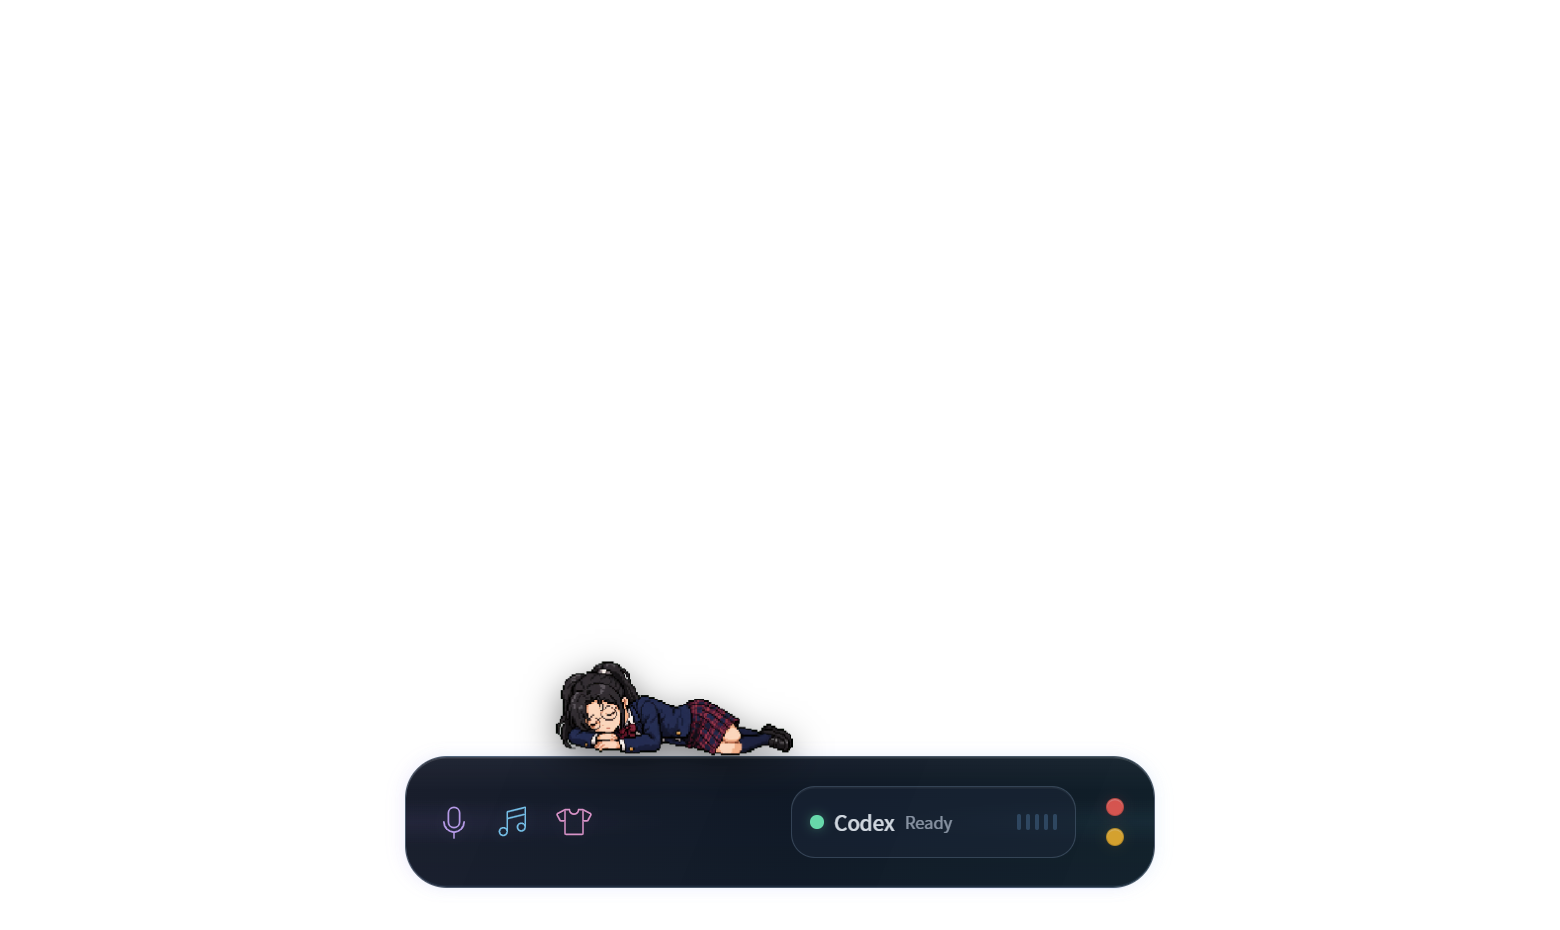
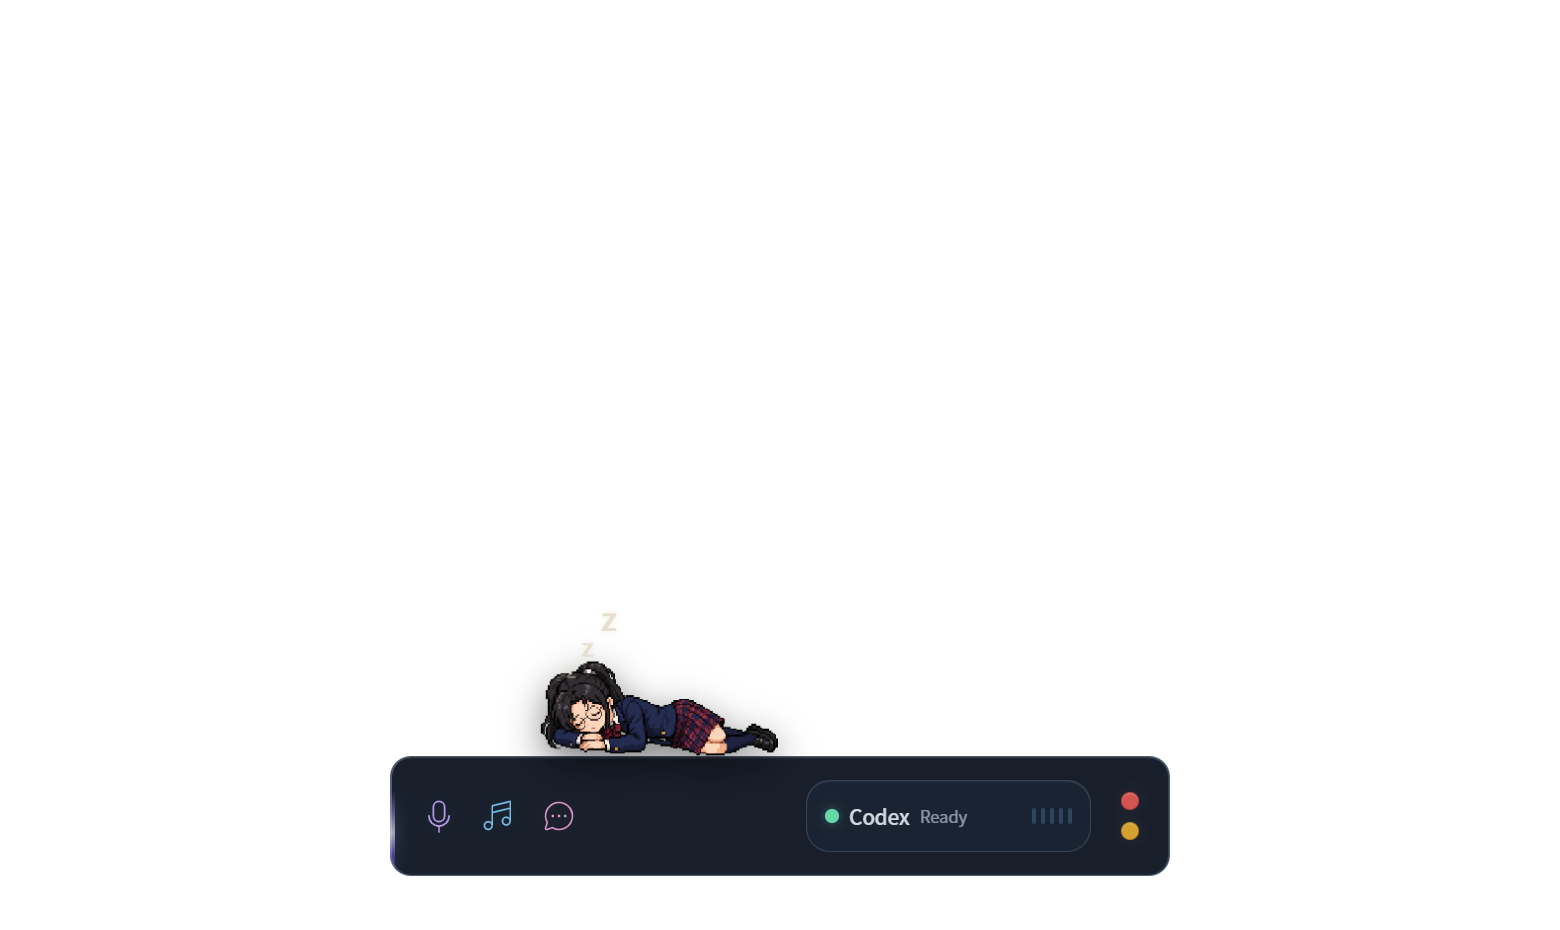
Refine compact companion rail and sleep state

diff --git a/src/styles.css b/src/styles.css
@@ -45,33 +45,28 @@ button, input, select { font: inherit; }
   position: absolute;
   z-index: 10;
   left: 50%;
-  bottom: 12px;
-  width: min(500px, calc(100vw - 28px));
-  height: 88px;
+  bottom: 20px;
+  width: min(520px, calc(100vw - 28px));
+  height: 80px;
   display: block;
   padding: 0;
-  border: 1px solid rgba(190, 210, 236, .34);
-  border-radius: 28px;
-  background:
-    linear-gradient(112deg, rgba(23, 28, 42, .96) 0%, rgba(16, 25, 38, .97) 54%, rgba(16, 30, 41, .96) 100%);
+  border: 1px solid rgba(180, 200, 226, .38);
+  border-radius: 14px;
+  background: rgba(18, 25, 38, .92);
   box-shadow:
-    -3px 0 10px rgba(145, 116, 230, .08),
-    3px 0 10px rgba(109, 197, 226, .07),
-    inset 0 1px rgba(255, 255, 255, .12),
-    inset 0 -1px rgba(126, 171, 214, .1);
-  backdrop-filter: blur(28px) saturate(112%);
+    inset 0 1px rgba(255, 255, 255, .11),
+    inset 0 -1px rgba(102, 139, 181, .08);
+  backdrop-filter: blur(26px) saturate(108%);
   overflow: visible;
   isolation: isolate;
   transform: translateX(-50%);
   -webkit-app-region: no-drag;
 }
 .is-desktop-runtime .status-rail {
-  background: linear-gradient(112deg, rgba(22, 27, 41, .99), rgba(14, 23, 36, .995) 54%, rgba(14, 29, 39, .99));
+  background: rgba(17, 24, 37, .985);
   box-shadow:
-    -3px 0 10px rgba(145, 116, 230, .09),
-    3px 0 10px rgba(109, 197, 226, .08),
-    inset 0 1px rgba(255, 255, 255, .12),
-    inset 0 -1px rgba(126, 171, 214, .1);
+    inset 0 1px rgba(255, 255, 255, .11),
+    inset 0 -1px rgba(102, 139, 181, .08);
   backdrop-filter: none;
 }
 
@@ -82,10 +77,9 @@ button, input, select { font: inherit; }
   pointer-events: none;
   border-radius: inherit;
   z-index: 0;
-  background:
-    radial-gradient(ellipse at 0% 50%, rgba(160, 125, 235, .07), transparent 25%),
-    radial-gradient(ellipse at 100% 50%, rgba(112, 202, 228, .06), transparent 25%),
-    linear-gradient(180deg, rgba(255, 255, 255, .04), transparent 26%, rgba(107, 148, 190, .025));
+  border-left: 1px solid rgba(169, 139, 255, .5);
+  border-right: 1px solid rgba(100, 199, 255, .22);
+  background: rgba(255, 255, 255, .012);
 }
 
 .rail-flow-edge {
@@ -98,24 +92,25 @@ button, input, select { font: inherit; }
 }
 .rail-flow-edge i {
   position: absolute;
-  width: 72%;
-  height: 3px;
-  border-radius: 50%;
-  opacity: .18;
-  filter: blur(.35px);
+  top: -58px;
+  width: 3px;
+  height: 56px;
+  border-radius: 999px;
+  opacity: .7;
+  filter: blur(.15px) drop-shadow(0 0 5px currentColor);
   will-change: transform, opacity;
 }
 .rail-flow-top {
-  top: -2px;
-  left: -66%;
-  background: radial-gradient(ellipse at center, rgba(205, 180, 255, .92), rgba(105, 190, 255, .5) 34%, transparent 72%);
-  animation: rail-flow-top 7.6s ease-in-out infinite alternate;
+  left: 0;
+  color: rgba(177, 139, 255, .8);
+  background: linear-gradient(180deg, transparent, rgba(201, 181, 255, .5) 24%, rgba(244, 237, 255, .98) 50%, rgba(147, 112, 255, .58) 76%, transparent);
+  animation: rail-flow-left 5.8s cubic-bezier(.45, 0, .55, 1) infinite;
 }
 .rail-flow-bottom {
-  right: -66%;
-  bottom: -2px;
-  background: radial-gradient(ellipse at center, rgba(91, 222, 236, .78), rgba(126, 129, 255, .44) 36%, transparent 72%);
-  animation: rail-flow-bottom 8.4s ease-in-out infinite alternate;
+  right: 0;
+  color: rgba(87, 219, 239, .78);
+  background: linear-gradient(180deg, transparent, rgba(108, 211, 238, .46) 24%, rgba(226, 252, 255, .96) 50%, rgba(72, 184, 225, .52) 76%, transparent);
+  animation: rail-flow-right 6.4s cubic-bezier(.45, 0, .55, 1) -2.1s infinite;
 }
 
 .drag-surface {
@@ -202,7 +197,7 @@ button, input, select { font: inherit; }
 .feature-companion.state-completed { color: #9d8cff; }
 .feature-companion.state-error { color: #ff8378; }
 .feature-sing { color: #74bde5; filter: drop-shadow(0 0 4px rgba(116, 189, 229, .09)); }
-.feature-wardrobe { color: #d993c8; filter: drop-shadow(0 0 4px rgba(217, 147, 200, .09)); }
+.feature-chat { color: #d993c8; filter: drop-shadow(0 0 4px rgba(217, 147, 200, .09)); }
 
 .icon-tooltip {
   position: absolute;
@@ -370,6 +365,7 @@ button, input, select { font: inherit; }
 .traffic-light:active span { filter: brightness(.88); transform: scale(.94); }
 
 .is-minimized .status-rail {
+  bottom: 12px;
   width: 160px;
   height: 44px;
   grid-template-rows: 44px;
@@ -447,6 +443,32 @@ button, input, select { font: inherit; }
 }
 .is-asleep .avatar-halo { width: 118px; }
 .is-desktop-runtime .avatar-halo { display: none; }
+
+.sleep-indicator {
+  position: absolute;
+  z-index: 5;
+  left: calc(50% - 62px);
+  bottom: 52px;
+  width: 54px;
+  height: 48px;
+  pointer-events: none;
+}
+.sleep-indicator i {
+  position: absolute;
+  color: rgba(195, 178, 239, .9);
+  font-family: -apple-system, BlinkMacSystemFont, "Segoe UI", sans-serif;
+  font-size: 12px;
+  font-style: normal;
+  font-weight: 650;
+  text-shadow:
+    0 1px rgba(238, 233, 255, .16),
+    0 0 5px rgba(117, 188, 229, .24);
+  animation: sleep-z 2.8s ease-in-out infinite alternate;
+}
+.sleep-indicator i:nth-child(1) { left: 0; bottom: 0; color: rgba(181, 154, 230, .76); font-size: 10px; animation-delay: -.2s; }
+.sleep-indicator i:nth-child(2) { left: 10px; bottom: 12px; color: rgba(195, 178, 239, .88); font-size: 13px; animation-delay: -.9s; }
+.sleep-indicator i:nth-child(3) { left: 23px; bottom: 26px; color: rgba(202, 210, 244, .94); font-size: 16px; animation-delay: -1.6s; }
+.is-minimized .sleep-indicator { display: none; }
 
 .wake-hint {
   position: absolute;
@@ -551,10 +573,11 @@ button, input, select { font: inherit; }
 @keyframes speech-bob { 0%,100% { transform: translateX(-50%) rotate(-.5deg); } 50% { transform: translateX(-50%) translateY(-3px) rotate(.5deg); } }
 @keyframes happy-bounce { 0%,100% { transform: translateX(-50%) translateY(0); } 45% { transform: translateX(-50%) translateY(-7px); } }
 @keyframes error-shake { 0%,100% { transform: translateX(-50%); } 35% { transform: translateX(calc(-50% - 3px)); } 65% { transform: translateX(calc(-50% + 3px)); } }
+@keyframes sleep-z { 0% { opacity: .42; transform: translateY(2px) scale(.96); } 52% { opacity: .96; } 100% { opacity: .6; transform: translateY(-4px) scale(1.03); } }
 @keyframes spin { to { transform: rotate(360deg); } }
 @keyframes codex-level { from { height: 5px; opacity: .46; } to { height: 16px; opacity: 1; } }
-@keyframes rail-flow-top { 0% { transform: translateX(0); opacity: .08; } 42% { opacity: .3; } 100% { transform: translateX(230%); opacity: .1; } }
-@keyframes rail-flow-bottom { 0% { transform: translateX(0); opacity: .07; } 48% { opacity: .26; } 100% { transform: translateX(-230%); opacity: .09; } }
+@keyframes rail-flow-left { 0%, 12% { transform: translateY(0); opacity: 0; } 28% { opacity: .75; } 72% { opacity: .62; } 88%, 100% { transform: translateY(138px); opacity: 0; } }
+@keyframes rail-flow-right { 0%, 12% { transform: translateY(138px); opacity: 0; } 28% { opacity: .68; } 72% { opacity: .56; } 88%, 100% { transform: translateY(0); opacity: 0; } }
 .animation-sleep-breathe img { animation: sleep-breathe 4.8s ease-in-out infinite; }
 .animation-listen-pulse img { animation: listen-pulse 1.45s ease-in-out infinite; }
 .animation-thinking-flicker img { animation: thinking-flicker 2.3s linear infinite; }
@@ -564,7 +587,7 @@ button, input, select { font: inherit; }
 
 @media (max-width: 900px) {
   .companion-shell { width: calc(100vw - 12px); }
-  .status-rail { width: min(500px, calc(100vw - 28px)); }
+  .status-rail { width: min(520px, calc(100vw - 28px)); }
   .rail-whisper { display: none; }
   .codex-status { flex-basis: 190px; }
   .portrait-button { left: calc(50% - 448px); width: 210px; }
@@ -572,7 +595,7 @@ button, input, select { font: inherit; }
 }
 
 @media (max-width: 680px) {
-  .status-rail { width: min(500px, calc(100vw - 16px)); height: 84px; border-radius: 24px; }
+  .status-rail { width: min(520px, calc(100vw - 16px)); height: 80px; border-radius: 14px; }
   .rail-topline { padding-inline: 14px; }
   .rail-global-status { gap: 12px; }
   .rail-mainline { gap: 4px; padding-inline: 9px; }

diff --git a/src/App.jsx b/src/App.jsx
@@ -4,7 +4,7 @@ import {
   LockOpen,
   Microphone,
   MusicNotes,
-  TShirt,
+  ChatCircleDots,
   ArrowsOutSimple,
 } from "@phosphor-icons/react";
 import { createCompanionController, STATE_META } from "./companion-controller.js";
@@ -65,6 +65,14 @@ function CodexStatus({ working }) {
         {Array.from({ length: 5 }, (_, index) => <i key={index} />)}
       </span>
     </div>
+  );
+}
+
+function SleepIndicator() {
+  return (
+    <span className="sleep-indicator" aria-hidden="true">
+      <i>Z</i><i>Z</i><i>Z</i>
+    </span>
   );
 }
 
@@ -336,7 +344,7 @@ export function App() {
   };
 
   const handleSingRequest = () => showFeatureNotice("唱歌功能准备中");
-  const handleWardrobeRequest = () => showFeatureNotice("换装功能准备中");
+  const handleChatRequest = () => showFeatureNotice("聊天功能准备中");
 
   const meta = STATE_META[snapshot.state];
   const codexWorking = activeSession && ["thinking", "speaking"].includes(snapshot.state);
@@ -355,7 +363,7 @@ export function App() {
           </button>
         )}
 
-        {(!activeSession || minimized) && (
+        {minimized && (
           <button
             className={`avatar-button animation-${meta.animation}`}
             style={{ "--seat-anchor-y": meta.seatAnchor, "--seat-bottom": `${(meta.seatAnchor - 1) * 150}px` }}
@@ -365,6 +373,7 @@ export function App() {
           >
             <img src={meta.src} alt={`8-bit 罗照月，${meta.label}`} draggable="false" />
             <span className="avatar-halo" />
+            {snapshot.state === "idle" && <SleepIndicator />}
             {!activeSession && <span className="wake-hint">唤醒照月</span>}
           </button>
         )}
@@ -403,24 +412,25 @@ export function App() {
                 label="给我唱首歌，功能准备中"
               />
               <IconFeatureButton
-                id="wardrobe"
-                onClick={handleWardrobeRequest}
-                icon={<TShirt weight="light" />}
-                label="换装，功能准备中"
+                id="chat"
+                onClick={handleChatRequest}
+                icon={<ChatCircleDots weight="light" />}
+                label="聊天，功能准备中"
               />
             </div>
 
-            {activeSession && (
-              <div className="runtime-avatar-slot" aria-label={`${meta.label} 8-bit 工作状态`}>
+            {!minimized && (
+              <div className="runtime-avatar-slot" aria-label={`${meta.label} 8-bit 状态`}>
                 <button
                   className={`avatar-button runtime-avatar-button animation-${meta.animation}`}
                   style={{ "--seat-anchor-y": meta.seatAnchor, "--seat-bottom": `${(meta.seatAnchor - 1) * 160}px` }}
                   type="button"
-                  onClick={toggleListening}
-                  aria-label={`${meta.label}角色，点击切换聆听`}
+                  onClick={activeSession ? toggleListening : wakeCompanion}
+                  aria-label={activeSession ? `${meta.label}角色，点击切换聆听` : "唤醒照月角色"}
                 >
                   <img src={meta.src} alt={`8-bit 罗照月，${meta.label}`} draggable="false" />
                   <span className="avatar-halo" />
+                  {snapshot.state === "idle" && <SleepIndicator />}
                 </button>
               </div>
             )}

diff --git a/tests/app-feature-rail.test.jsx b/tests/app-feature-rail.test.jsx
@@ -15,7 +15,8 @@ describe("flat spectrum feature rail", () => {
     expect(container.querySelector(".status-rail.drag-surface")).toBeInTheDocument();
     expect(container.querySelectorAll(".icon-feature-button")).toHaveLength(3);
     expect(container.querySelectorAll(".avatar-button img")).toHaveLength(1);
-    expect(container.querySelector(".runtime-avatar-slot")).toBeNull();
+    expect(container.querySelector(".runtime-avatar-slot")).toBeInTheDocument();
+    expect(container.querySelectorAll(".sleep-indicator i")).toHaveLength(3);
     expect(screen.getByLabelText("Codex Standby")).toHaveTextContent("CodexReady");
 
     const controls = screen.getByLabelText("窗口控制");
@@ -31,14 +32,14 @@ describe("flat spectrum feature rail", () => {
     expect(container.querySelector(".utility-menu-trigger")).not.toBeInTheDocument();
   });
 
-  it("keeps singing and wardrobe as honest near-term entries", async () => {
+  it("keeps singing and chat as honest near-term entries", async () => {
     const { container } = render(<App />);
     await act(async () => Promise.resolve());
 
     fireEvent.click(container.querySelector(".feature-sing"));
     expect(screen.getByRole("status")).toHaveTextContent("唱歌功能准备中");
-    fireEvent.click(container.querySelector(".feature-wardrobe"));
-    expect(screen.getByRole("status")).toHaveTextContent("换装功能准备中");
+    fireEvent.click(container.querySelector(".feature-chat"));
+    expect(screen.getByRole("status")).toHaveTextContent("聊天功能准备中");
   });
 
   it("collapses to the small draggable rail and restores", async () => {

diff --git a/docs/PRD.md b/docs/PRD.md
@@ -276,3 +276,9 @@ Gallery 02 的视觉语言定义如下：
 - “1:1 复刻”针对视觉结构、比例、密度、玻璃材质、层级和人物站位；不复制参考图中无实际功能的 macOS 系统内容。
 - 下一轮实现优先完成休眠态长条、真实拖动和四功能区，再补充唤醒态立绘与辅助按钮。
 - 本 PRD 是下一轮界面实现和 Design QA 的唯一视觉依据；此前短厚大圆角胶囊方案停止使用。
+
+## 2026-08-01 交互覆盖说明
+
+- 第三个主功能入口由“换装”调整为“聊天”，使用线性聊天气泡图标；本轮点击只显示“聊天功能准备中”，不新增后端接口。
+- 首次启动的休眠人物与工作结束后返回 Idle 的人物必须复用同一个运行时锚点，不允许发生横向或纵向跳位。
+- Idle 状态在人物头部附近显示三段错峰上浮的 `Z` 动画；动画低亮、慢速、不可点击，并遵循系统减少动态效果设置。
